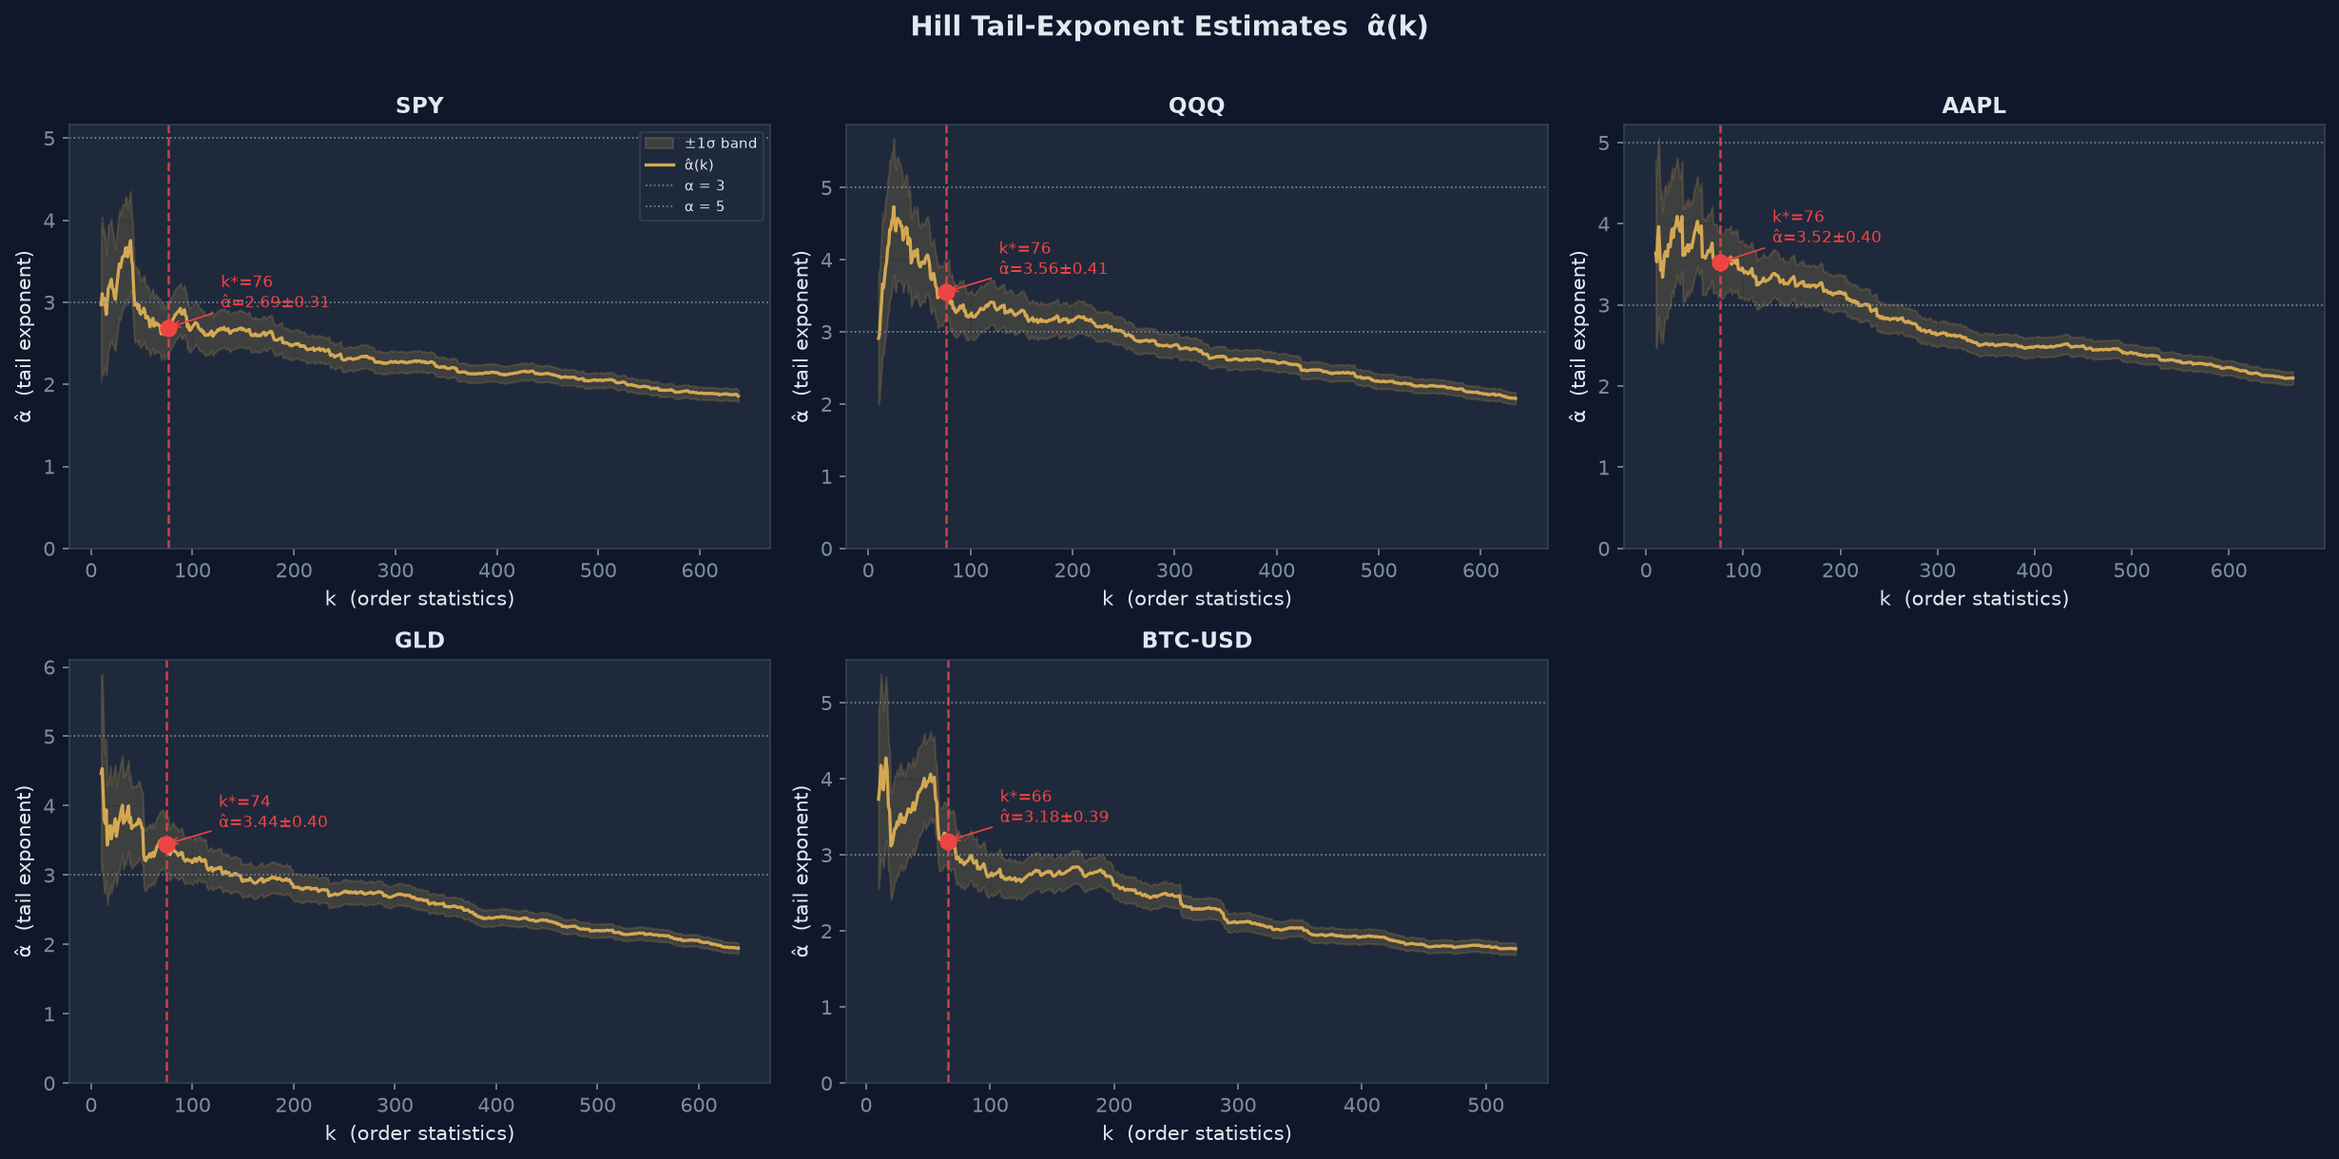
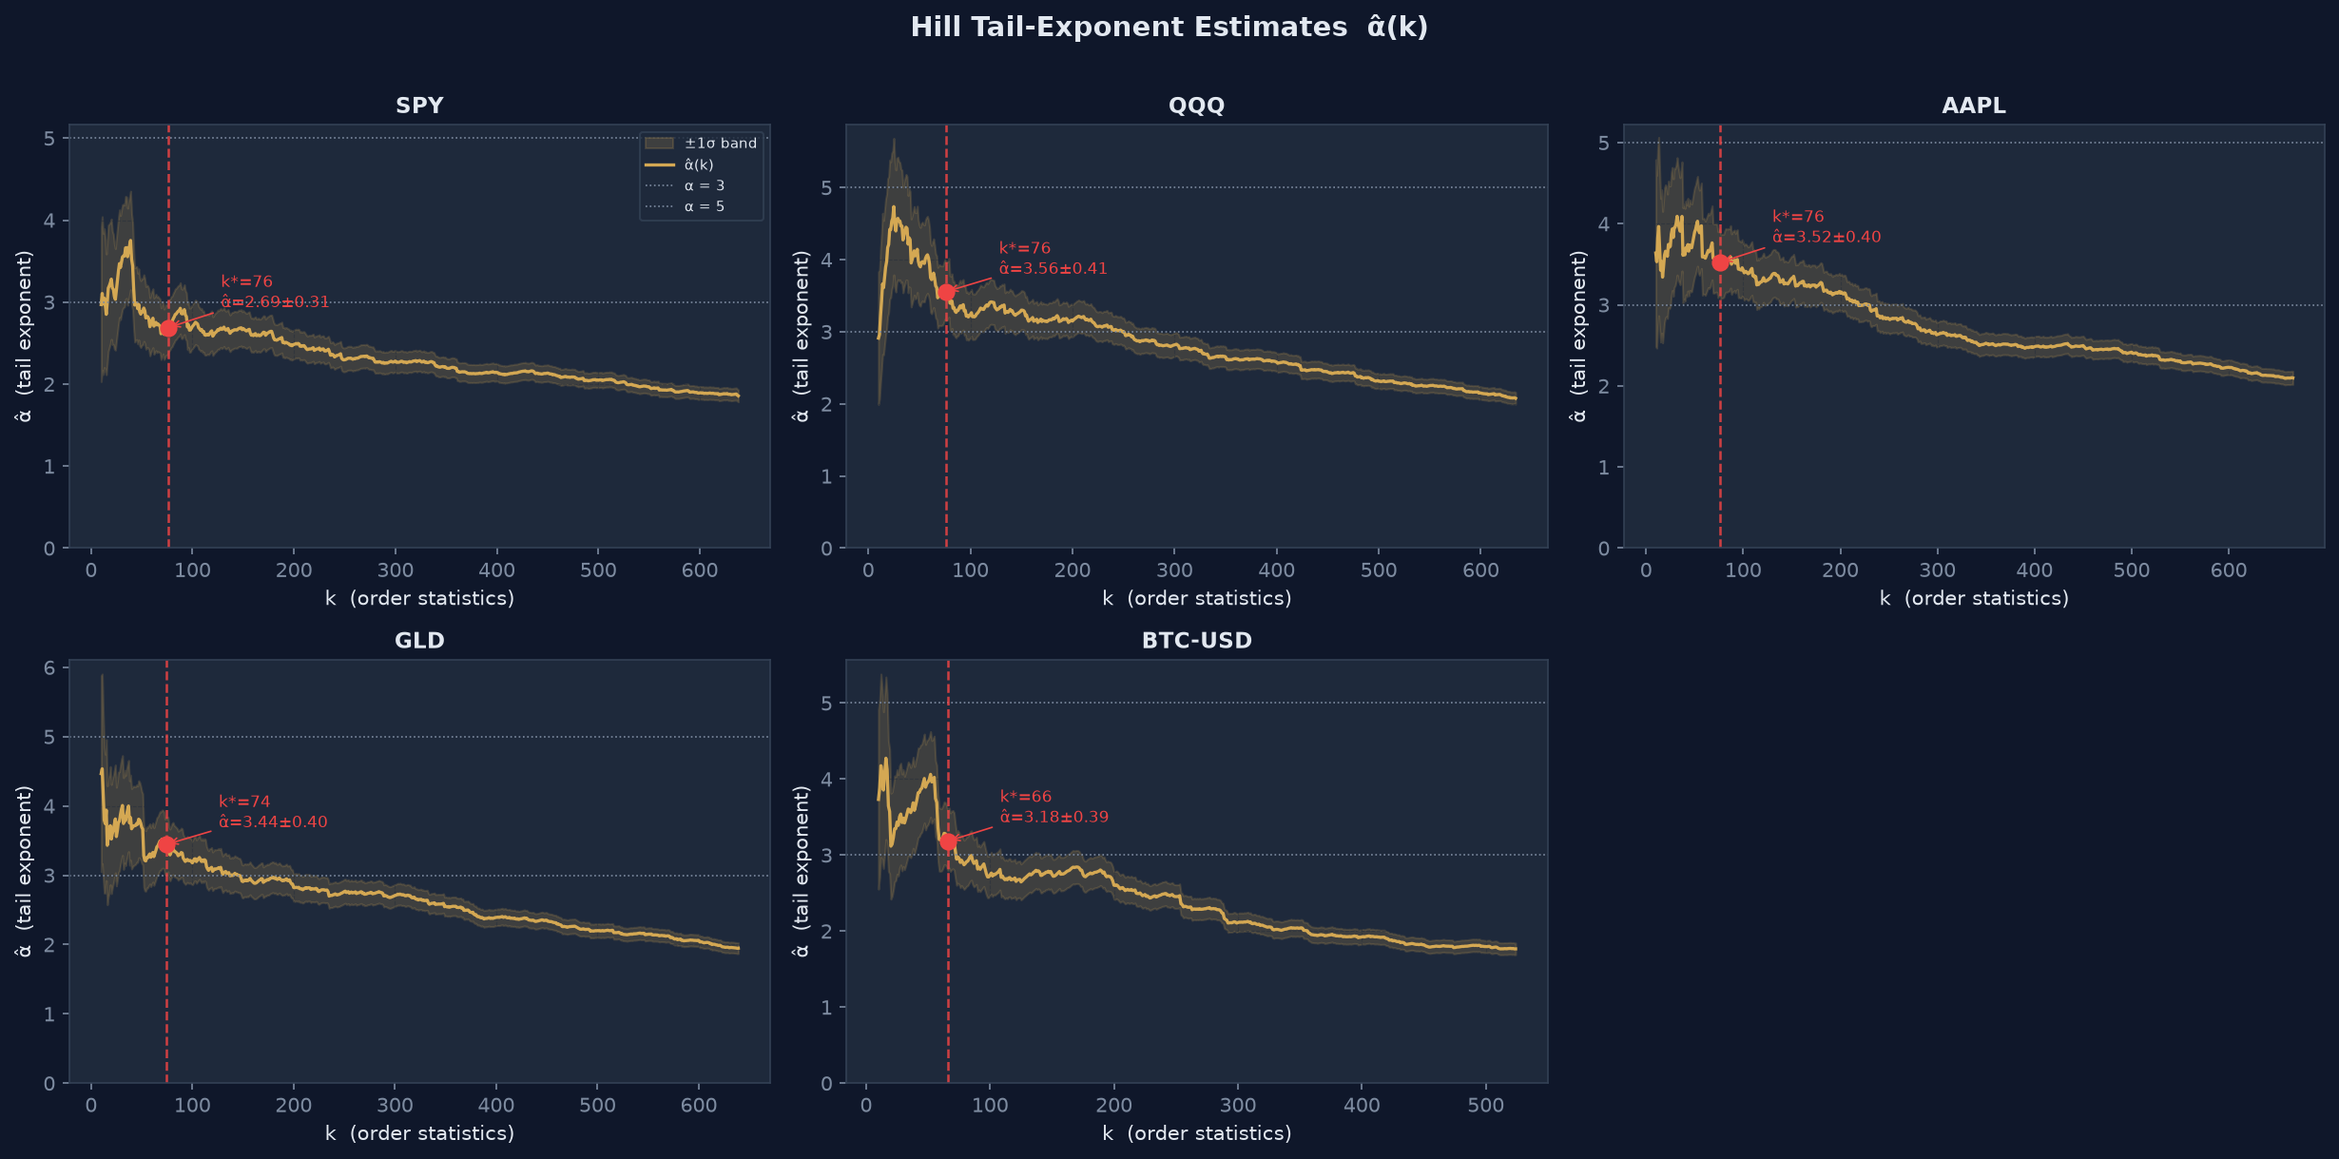
Address review: in-sample caveat, wider k sensitivity, pinned data end date
- Headline states the 99.9% Weissman/Gaussian check is in-sample.
- Report alpha at 1%, 2% and 5% of n; README says plainly that alpha depends on k.
- Limitation on Hill bias now matches the simulation table (0.06 to 1.0).
- Clustering wording matches the code (10 days after); two-sided figure added.
- fetch_data pins END to 2026-10-10 (--latest for today) so numbers reproduce.
- Drop unused scipy requirement; ignore .pytest_cache in the project folder.
- breach_heatmap.png renamed breach_timeline.png; panels span each asset's own
  sample and only mark crises inside it; whole-year ticks.
- Printed paths are relative, so the notebook no longer shows a local home path.

diff --git a/01-tail-risk/src/plots.py b/01-tail-risk/src/plots.py
@@ -6,7 +6,7 @@ Generate every figure for the project and save them to results/.
 Figures produced
 ----------------
 hill_plots.png      — Hill plot grid (one panel per asset)
-breach_heatmap.png  — Calendar-dot breach heatmap, colour-coded by loss
+breach_timeline.png — Breach timeline per asset, colour-coded by loss
 var_compare.png     — Gaussian vs Weissman VaR comparison bar chart
 
 Run:
@@ -137,14 +137,14 @@ def plot_hill(results: dict, out_path: pathlib.Path) -> None:
     fig.tight_layout()
     fig.savefig(out_path, dpi=150, bbox_inches="tight", facecolor=BG)
     plt.close(fig)
-    print(f"Saved → {out_path}")
+    print(f"Saved → {out_path.relative_to(ROOT)}")
 
 
 # ─────────────────────────────────────────────────────────────────────────────
 # 2. Breach heatmap / calendar dots
 # ─────────────────────────────────────────────────────────────────────────────
 
-def plot_breach_heatmap(results: dict, out_path: pathlib.Path) -> None:
+def plot_breach_timeline(results: dict, out_path: pathlib.Path) -> None:
     """
     One row per asset.  Each breach is a dot at (year, day-of-year),
     coloured by loss magnitude (green → amber → red).
@@ -200,8 +200,16 @@ def plot_breach_heatmap(results: dict, out_path: pathlib.Path) -> None:
             )
 
         # Annotate crisis years
-        # Lehman collapse (15 Sep 2008) and the COVID crash (March 2020)
+        # Lehman collapse (15 Sep 2008) and the COVID crash (March 2020), only
+        # where the asset has data (Bitcoin starts in 2014).  Each panel spans
+        # its own VaR sample so short histories don't leave an empty half.
+        span = r["gvar_series"].dropna().index
+        x_lo = span[0].year + span[0].day_of_year / 365.25
+        x_hi = span[-1].year + span[-1].day_of_year / 365.25
+        ax.set_xlim(x_lo - 0.2, x_hi + 0.2)
         for crisis, label in [(pd.Timestamp("2008-09-15"), "GFC"), (pd.Timestamp("2020-03-01"), "COVID")]:
+            if not span[0] <= crisis <= span[-1]:
+                continue
             x_c = crisis.year + crisis.day_of_year / 365.25
             ax.axvline(x_c, color=MUTED, linestyle=":", linewidth=0.8)
             ax.text(x_c + 0.05, 0.82, label, color=MUTED, fontsize=7,
@@ -216,6 +224,7 @@ def plot_breach_heatmap(results: dict, out_path: pathlib.Path) -> None:
             f"{ticker}\n{len(bdf)} breaches\n({n_per_yr}/yr)",
             fontweight="bold", color=GOLD, fontsize=9,
         )
+        ax.xaxis.set_major_locator(mticker.MaxNLocator(integer=True))
         ax.set_yticks([])
         ax.set_ylim(0, 1)
         ax.grid(axis="x", alpha=0.3)
@@ -226,7 +235,7 @@ def plot_breach_heatmap(results: dict, out_path: pathlib.Path) -> None:
     fig.tight_layout()
     fig.savefig(out_path, dpi=150, bbox_inches="tight", facecolor=BG)
     plt.close(fig)
-    print(f"Saved → {out_path}")
+    print(f"Saved → {out_path.relative_to(ROOT)}")
 
 
 # ─────────────────────────────────────────────────────────────────────────────
@@ -276,7 +285,7 @@ def plot_var_compare(results: dict, out_path: pathlib.Path) -> None:
     fig.tight_layout()
     fig.savefig(out_path, dpi=150, bbox_inches="tight", facecolor=BG)
     plt.close(fig)
-    print(f"Saved → {out_path}")
+    print(f"Saved → {out_path.relative_to(ROOT)}")
 
 
 # ─────────────────────────────────────────────────────────────────────────────
@@ -294,7 +303,7 @@ def main():
             print(f"    ⚠  {ticker} failed: {exc}")
 
     plot_hill(         results, RESULTS_DIR / "hill_plots.png")
-    plot_breach_heatmap(results, RESULTS_DIR / "breach_heatmap.png")
+    plot_breach_timeline(results, RESULTS_DIR / "breach_timeline.png")
     plot_var_compare(  results, RESULTS_DIR / "var_compare.png")
     print("\nAll figures saved to results/")
 

diff --git a/01-tail-risk/src/analysis.py b/01-tail-risk/src/analysis.py
@@ -78,6 +78,9 @@ def run_asset(
     ci_half   = hill_ci(best_alpha, best_k)
     alpha_lo  = alpha_at(ks, alphas, round(best_k * 0.8))   # sensitivity: k* − 20 %
     alpha_hi  = alpha_at(ks, alphas, round(best_k * 1.2))   # sensitivity: k* + 20 %
+    # Wider view: the Hill plot drifts down as k grows, so report α̂ at fixed
+    # shares of the sample too (1 %, 2 %, 5 % of all days).
+    alpha_by_share = {share: alpha_at(ks, alphas, round(share * n_days)) for share in (0.01, 0.02, 0.05)}
 
     # ── Weissman VaR (n = all days, so p is a per-day probability) ──────────
     wvar_99  = weissman_var(loss, best_alpha, best_k, target_prob=1 - CONFIDENCE_99)
@@ -104,6 +107,9 @@ def run_asset(
         "alpha_ci":             round(ci_half, 3),
         "alpha_k_minus_20":     round(alpha_lo, 3),
         "alpha_k_plus_20":      round(alpha_hi, 3),
+        "alpha_1pct":           round(alpha_by_share[0.01], 3),
+        "alpha_2pct":           round(alpha_by_share[0.02], 3),
+        "alpha_5pct":           round(alpha_by_share[0.05], 3),
         "best_k":               best_k,
         "periods_per_year":     ppy,
         "breaches_99":          n_breaches,
@@ -149,6 +155,9 @@ def main():
             "± CI":             r["alpha_ci"],
             "α̂ (k*−20%)":      r["alpha_k_minus_20"],
             "α̂ (k*+20%)":      r["alpha_k_plus_20"],
+            "α̂ (k=1% of n)":   r["alpha_1pct"],
+            "α̂ (k=2% of n)":   r["alpha_2pct"],
+            "α̂ (k=5% of n)":   r["alpha_5pct"],
             "k*":              r["best_k"],
             "Breaches/yr (obs)":r["breaches_per_year"],
             "Expected/yr":      r["expected_per_year"],
@@ -172,7 +181,7 @@ def main():
         print(table.to_string(index=False))
 
     table.to_csv(RESULTS_DIR / "summary_table.csv", index=False)
-    print(f"\nSaved → {RESULTS_DIR / 'summary_table.csv'}")
+    print(f"\nSaved → {(RESULTS_DIR / 'summary_table.csv').relative_to(ROOT)}")
 
     # ── Save breach details ───────────────────────────────────────────────────
     for ticker, r in results.items():

diff --git a/01-tail-risk/src/fetch_data.py b/01-tail-risk/src/fetch_data.py
@@ -6,6 +6,7 @@ save them to results/prices_raw.csv.  Run this once; the CSV is the source
 of truth for every downstream script.
 """
 
+import argparse
 import pathlib
 import datetime
 import yfinance as yf
@@ -22,7 +23,9 @@ TICKERS = {
 }
 
 START = "2004-01-01"
-END   = datetime.date.today().isoformat()
+# Pinned so a fresh download reproduces the README numbers (data through 9 Oct 2026;
+# yfinance's end date is exclusive).  Run with --latest to extend to today instead.
+END   = "2026-10-10"
 
 RESULTS_DIR = pathlib.Path(__file__).parent.parent / "results"
 RESULTS_DIR.mkdir(exist_ok=True)
@@ -51,10 +54,17 @@ def fetch_prices(tickers: list[str], start: str, end: str) -> pd.DataFrame:
 
 
 def main():
-    print(f"Fetching {list(TICKERS)} from {START} to {END} …")
-    df = fetch_prices(list(TICKERS), START, END)
+    parser = argparse.ArgumentParser(description=__doc__)
+    parser.add_argument("--latest", action="store_true",
+                        help="download through today instead of the pinned END date "
+                             "(results will then differ slightly from the README)")
+    args = parser.parse_args()
+    end = datetime.date.today().isoformat() if args.latest else END
+
+    print(f"Fetching {list(TICKERS)} from {START} to {end} …")
+    df = fetch_prices(list(TICKERS), START, end)
     df.to_csv(OUT_CSV)
-    print(f"Saved {len(df)} rows × {len(df.columns)} cols → {OUT_CSV}")
+    print(f"Saved {len(df)} rows × {len(df.columns)} cols → {OUT_CSV.relative_to(RESULTS_DIR.parent)}")
     print(df.tail(3))
 
 

diff --git a/01-tail-risk/README.md b/01-tail-risk/README.md
@@ -6,14 +6,14 @@
 
 ## Key result
 
-Daily losses on SPY, QQQ, AAPL, GLD and Bitcoin all have power-law tails with a Hill tail exponent of roughly **α̂ ≈ 2.7–3.6**. A Gaussian VaR fitted to the same data misses those tails badly:
+Daily losses on SPY, QQQ, AAPL, GLD and Bitcoin all have power-law tails. At the chosen k (√n ≈ 76 days) the Hill tail exponent is **α̂ ≈ 2.7–3.6**; the estimate depends on k and falls to about 2.3–2.8 if the 5% largest losses are used (§5). A Gaussian VaR fitted to the same data misses those tails badly:
 
 * A rolling 99% Gaussian VaR is breached **2–3× more often than it should be** (SPY: 7.1 breaches a year against 2.5 expected), and the Kupiec test rejects it for every asset.
-* At 99.9%, the full-sample Gaussian VaR was exceeded on **38–53 days** per asset over ~20 years, against about **5–6** expected. The Weissman (Pareto) estimate was exceeded on **2–6** days, in line with expectation.
-* For SPY the Gaussian puts the 1-in-1,000-day loss at **3.6%**; the Weissman estimate is **8.0%**, and the realised 99.9% quantile was **7.8%**.
+* At 99.9%, the full-sample Gaussian VaR was exceeded on **38–53 days** per asset over ~20 years, against about **4–6** expected. The Weissman (Pareto) estimate was exceeded on **2–6** days. Both are **in-sample** checks: each VaR is fitted to the same data it is checked against, which favours the Weissman match, so read it as a check of fit rather than a forecast test. The rolling 99% breach counts above are out-of-sample.
+* For SPY the Gaussian puts the 1-in-1,000-day loss at **3.6%**; the Weissman estimate is **8.0%**, and the realised 99.9% quantile was **7.8%** (all in-sample).
 
 ![Hill plots](results/hill_plots.png)
-![Breach heatmap](results/breach_heatmap.png)
+![Breach timeline](results/breach_timeline.png)
 ![VaR comparison](results/var_compare.png)
 
 ---
@@ -48,7 +48,7 @@ Daily losses on SPY, QQQ, AAPL, GLD and Bitcoin all have power-law tails with a 
 | Gold | GLD | Nov 2004 – Oct 2026 | 252 |
 | Bitcoin | BTC-USD | Sep 2014 – Oct 2026 | 365 (trades every day) |
 
-Prices are fetched once with `python src/fetch_data.py` and saved to `results/prices_raw.csv`. All downstream scripts read that file, so no internet is needed after the first run. The observations-per-year figure is inferred from the dates and used for the rolling window and for every per-year rate.
+Prices are fetched once with `python src/fetch_data.py` and saved to `results/prices_raw.csv` (not committed). The end date is pinned to 9 Oct 2026, so a fresh download reproduces the numbers below; `python src/fetch_data.py --latest` extends to today, and the results will then shift slightly. All downstream scripts read the CSV, so no internet is needed after the first run. The observations-per-year figure is inferred from the dates and used for the rolling window and for every per-year rate.
 
 ---
 
@@ -99,7 +99,19 @@ Small k gives a noisy estimate; large k lets ordinary, non-tail days pull it dow
 | 4.0 | 2.33 (1.67) | **3.45 (0.67)** | 3.28 (0.78) | 3.46 (0.88) |
 | 5.0 | 2.50 (2.51) | **3.97 (1.11)** | 3.74 (1.29) | 3.94 (1.29) |
 
-√n has the lowest error at α = 3, 4 and 5 and is close to the best at 2.5. Hill still reads somewhat low on Student-t data because its tail is only approximately Pareto; that bias is a property of the estimator, not of the k rule. The summary table also reports α̂ at k* ± 20%.
+√n has the lowest error at α = 3, 4 and 5 and is close to the best at 2.5. Hill still reads low on Student-t data because its tail is only approximately Pareto, and the bias grows with α: about 0.06 at α = 2.5, 0.17 at 3, 0.55 at 4 and 1.0 at 5 (√n column). That bias is a property of the estimator, not of the k rule.
+
+**The estimate depends on k.** On every asset the Hill plot slides from roughly 3–4 at small k to about 2 by k ≈ 600, so no single number is "the" tail exponent. The k* ± 20% check is narrow; the wider view below shows how far it moves:
+
+| Ticker | k = 1% of n | **k\* = √n** | k = 2% of n | k = 5% of n |
+|:-------|:----:|:----:|:----:|:----:|
+| SPY | 2.79 | **2.69** | 2.61 | 2.26 |
+| QQQ | 4.05 | **3.56** | 3.36 | 2.82 |
+| AAPL | 3.98 | **3.52** | 3.27 | 2.69 |
+| GLD | 3.26 | **3.44** | 3.22 | 2.74 |
+| BTC-USD | 3.86 | **3.18** | 2.90 | 2.49 |
+
+The conclusion that tails are power-law, far heavier than a Gaussian (whose tail decays faster than any power law), holds at every k; the exact value, and which moment band it falls in (§6), does not.
 
 ### 6  Interpreting α̂
 
@@ -153,9 +165,9 @@ VaR figures are 1-day log-losses. The Gaussian and Weissman columns here are ful
 ### Key observations
 
 1. **Gaussian VaR fails systematically.** The rolling 99% VaR is breached 2.0–2.8× more often than the nominal 1% (1.9× for Bitcoin, against its 365-day calendar). The Kupiec test rejects for every asset (p < 10⁻⁶).
-2. **The tail is a power law with α̂ around 3.** SPY's α̂ ≈ 2.7 sits near the boundary where skewness stops being finite; QQQ, AAPL, GLD and Bitcoin sit at 3.2–3.6, in the infinite-kurtosis range. Bitcoin's estimate is the least stable (3.96 to 2.87 across k*±20%) because its history is shortest.
+2. **The tail is a power law with α̂ around 3.** At k* SPY's α̂ ≈ 2.7 sits near the boundary where skewness stops being finite; QQQ, AAPL, GLD and Bitcoin sit at 3.2–3.6, in the infinite-kurtosis range. These bands depend on k (§5): at 5% of n every asset falls to 2.3–2.8. Bitcoin's estimate is the least stable (3.96 to 2.87 across k*±20%) because its history is shortest.
 3. **The gap is largest exactly where it matters.** At 99.9% the Gaussian is exceeded 7–9× more often than it should be. The Weissman estimate tracks the realised 99.9% quantile within about 0.2–3 percentage points and is exceeded about as often as expected.
-4. **Breaches cluster.** Over half of SPY's breaches (55%) come within 10 trading days of another breach; at SPY's 2.8% breach rate, independent breaches would cluster like that only about a quarter of the time. The worst years are spread across stress episodes: 2008 (20), 2022 (17), 2007 and 2018 (16 each) and 2020 (14). This contradicts the i.i.d. assumption behind both the Gaussian model and the Kupiec test.
+4. **Breaches cluster.** 55% of SPY's breaches come within the 10 trading days *after* an earlier breach, against 25% if breaches were independent at SPY's 2.8% rate. Counting both directions (another breach within 10 days before or after), it is 73% against 43%. The worst years are spread across stress episodes: 2008 (20), 2022 (17), 2007 and 2018 (16 each) and 2020 (14). This contradicts the i.i.d. assumption behind both the Gaussian model and the Kupiec test.
 
 ---
 
@@ -165,7 +177,7 @@ VaR figures are 1-day log-losses. The Gaussian and Weissman columns here are ful
 # 1. Install dependencies (first time only)
 pip install -r requirements.txt
 
-# 2. Download and cache data
+# 2. Download and cache data (pinned end date; add --latest for data through today)
 python src/fetch_data.py
 
 # 3. Run analysis → summary_table.csv + breach CSVs
@@ -185,11 +197,11 @@ python src/k_selection_study.py
 
 ## Limitations & extensions
 
-1. **k selection is a rule of thumb.** √n performed best of the rules tried on Student-t data, but no rule is right for every distribution. Sensitivity to k is reported via α̂ at k* ± 20%.
+1. **k selection is a rule of thumb.** √n performed best of the rules tried on Student-t data, but no rule is right for every distribution. Sensitivity to k is reported via α̂ at k* ± 20% and at 1%, 2% and 5% of n (§5); across that range the exponent moves by up to about 1.2.
 
 2. **Hill assumes i.i.d. observations.** Real returns cluster in volatility (GARCH effects), which biases the estimator and its standard error. A natural extension: filter returns through a GARCH(1,1) model and apply Hill to the standardised residuals.
 
-3. **Power-law tail assumption.** Hill is exact only for Pareto tails. When the tail is power-law only asymptotically (as for Student-t), Hill is biased in finite samples; the simulation in §5 shows it reading roughly 0.2–0.5 low.
+3. **Power-law tail assumption.** Hill is exact only for Pareto tails. When the tail is power-law only asymptotically (as for Student-t), Hill is biased low in finite samples, and more so the thinner the tail: in the §5 simulation, about 0.06 at α = 2.5, 0.17 at 3, 0.55 at 4 and 1.0 at 5.
 
 4. **The tail comparison is in-sample.** The Weissman and full-sample Gaussian VaRs are fitted on the same data they are checked against. A rolling, out-of-sample Weissman VaR would be the fair counterpart to the rolling Gaussian.
 
